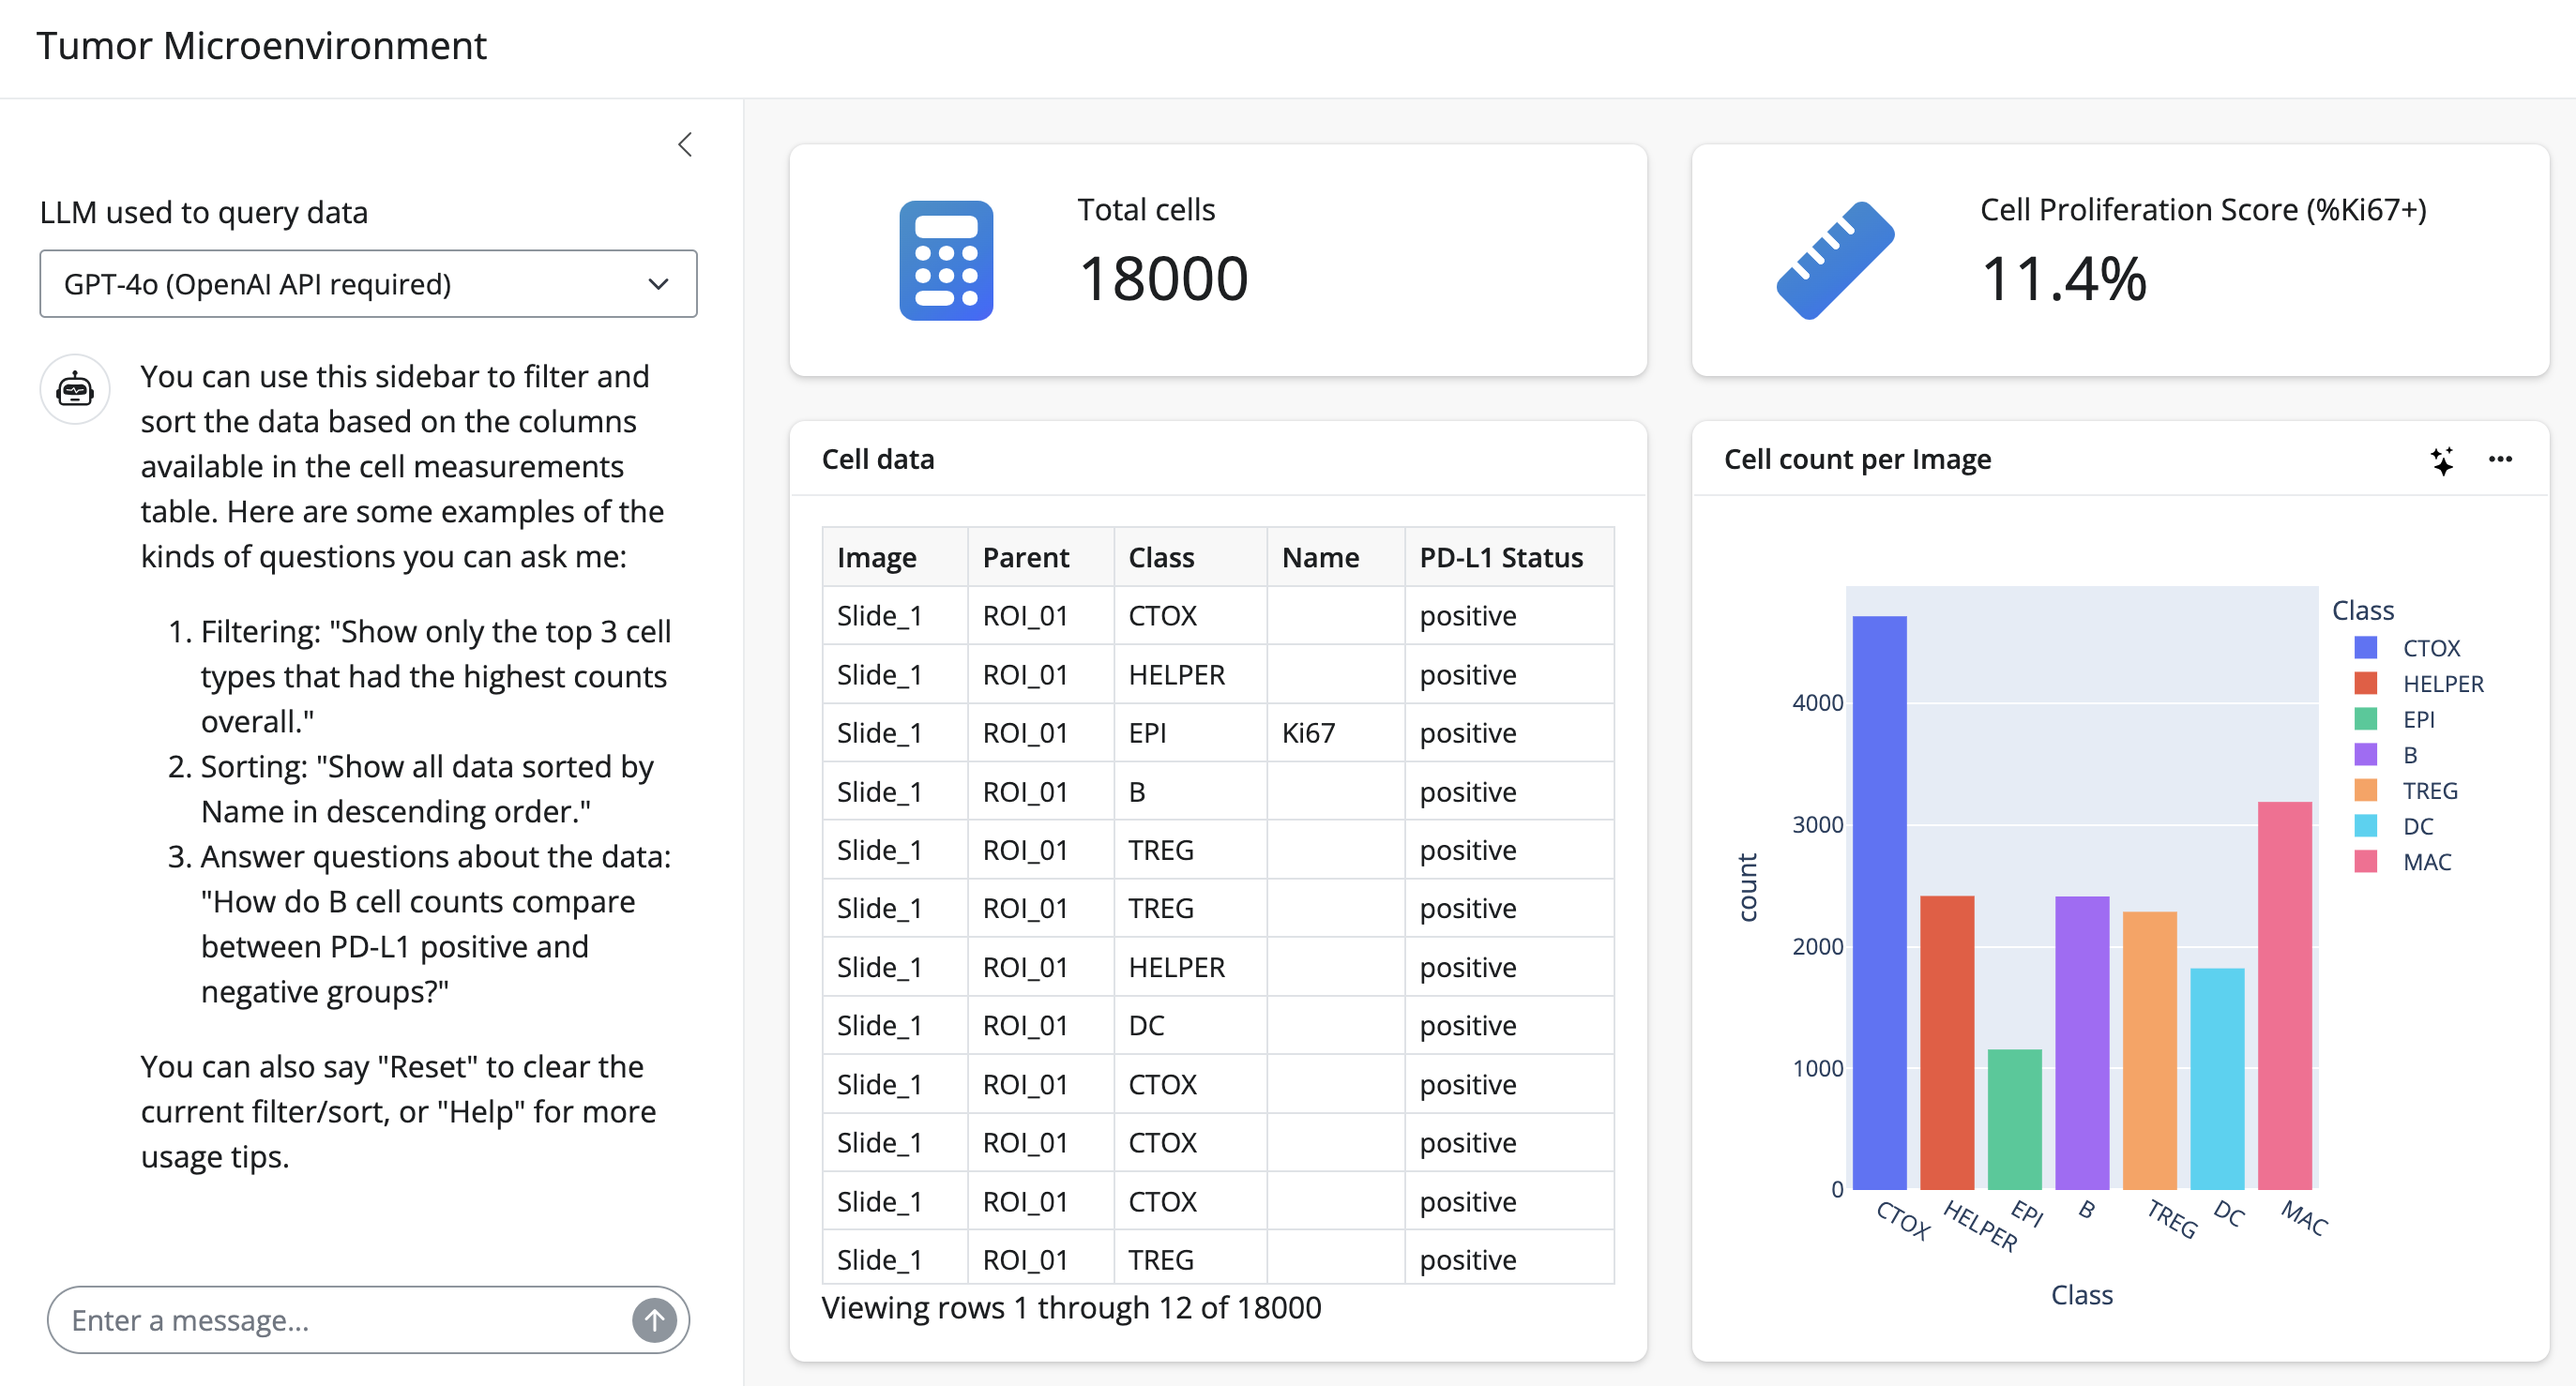
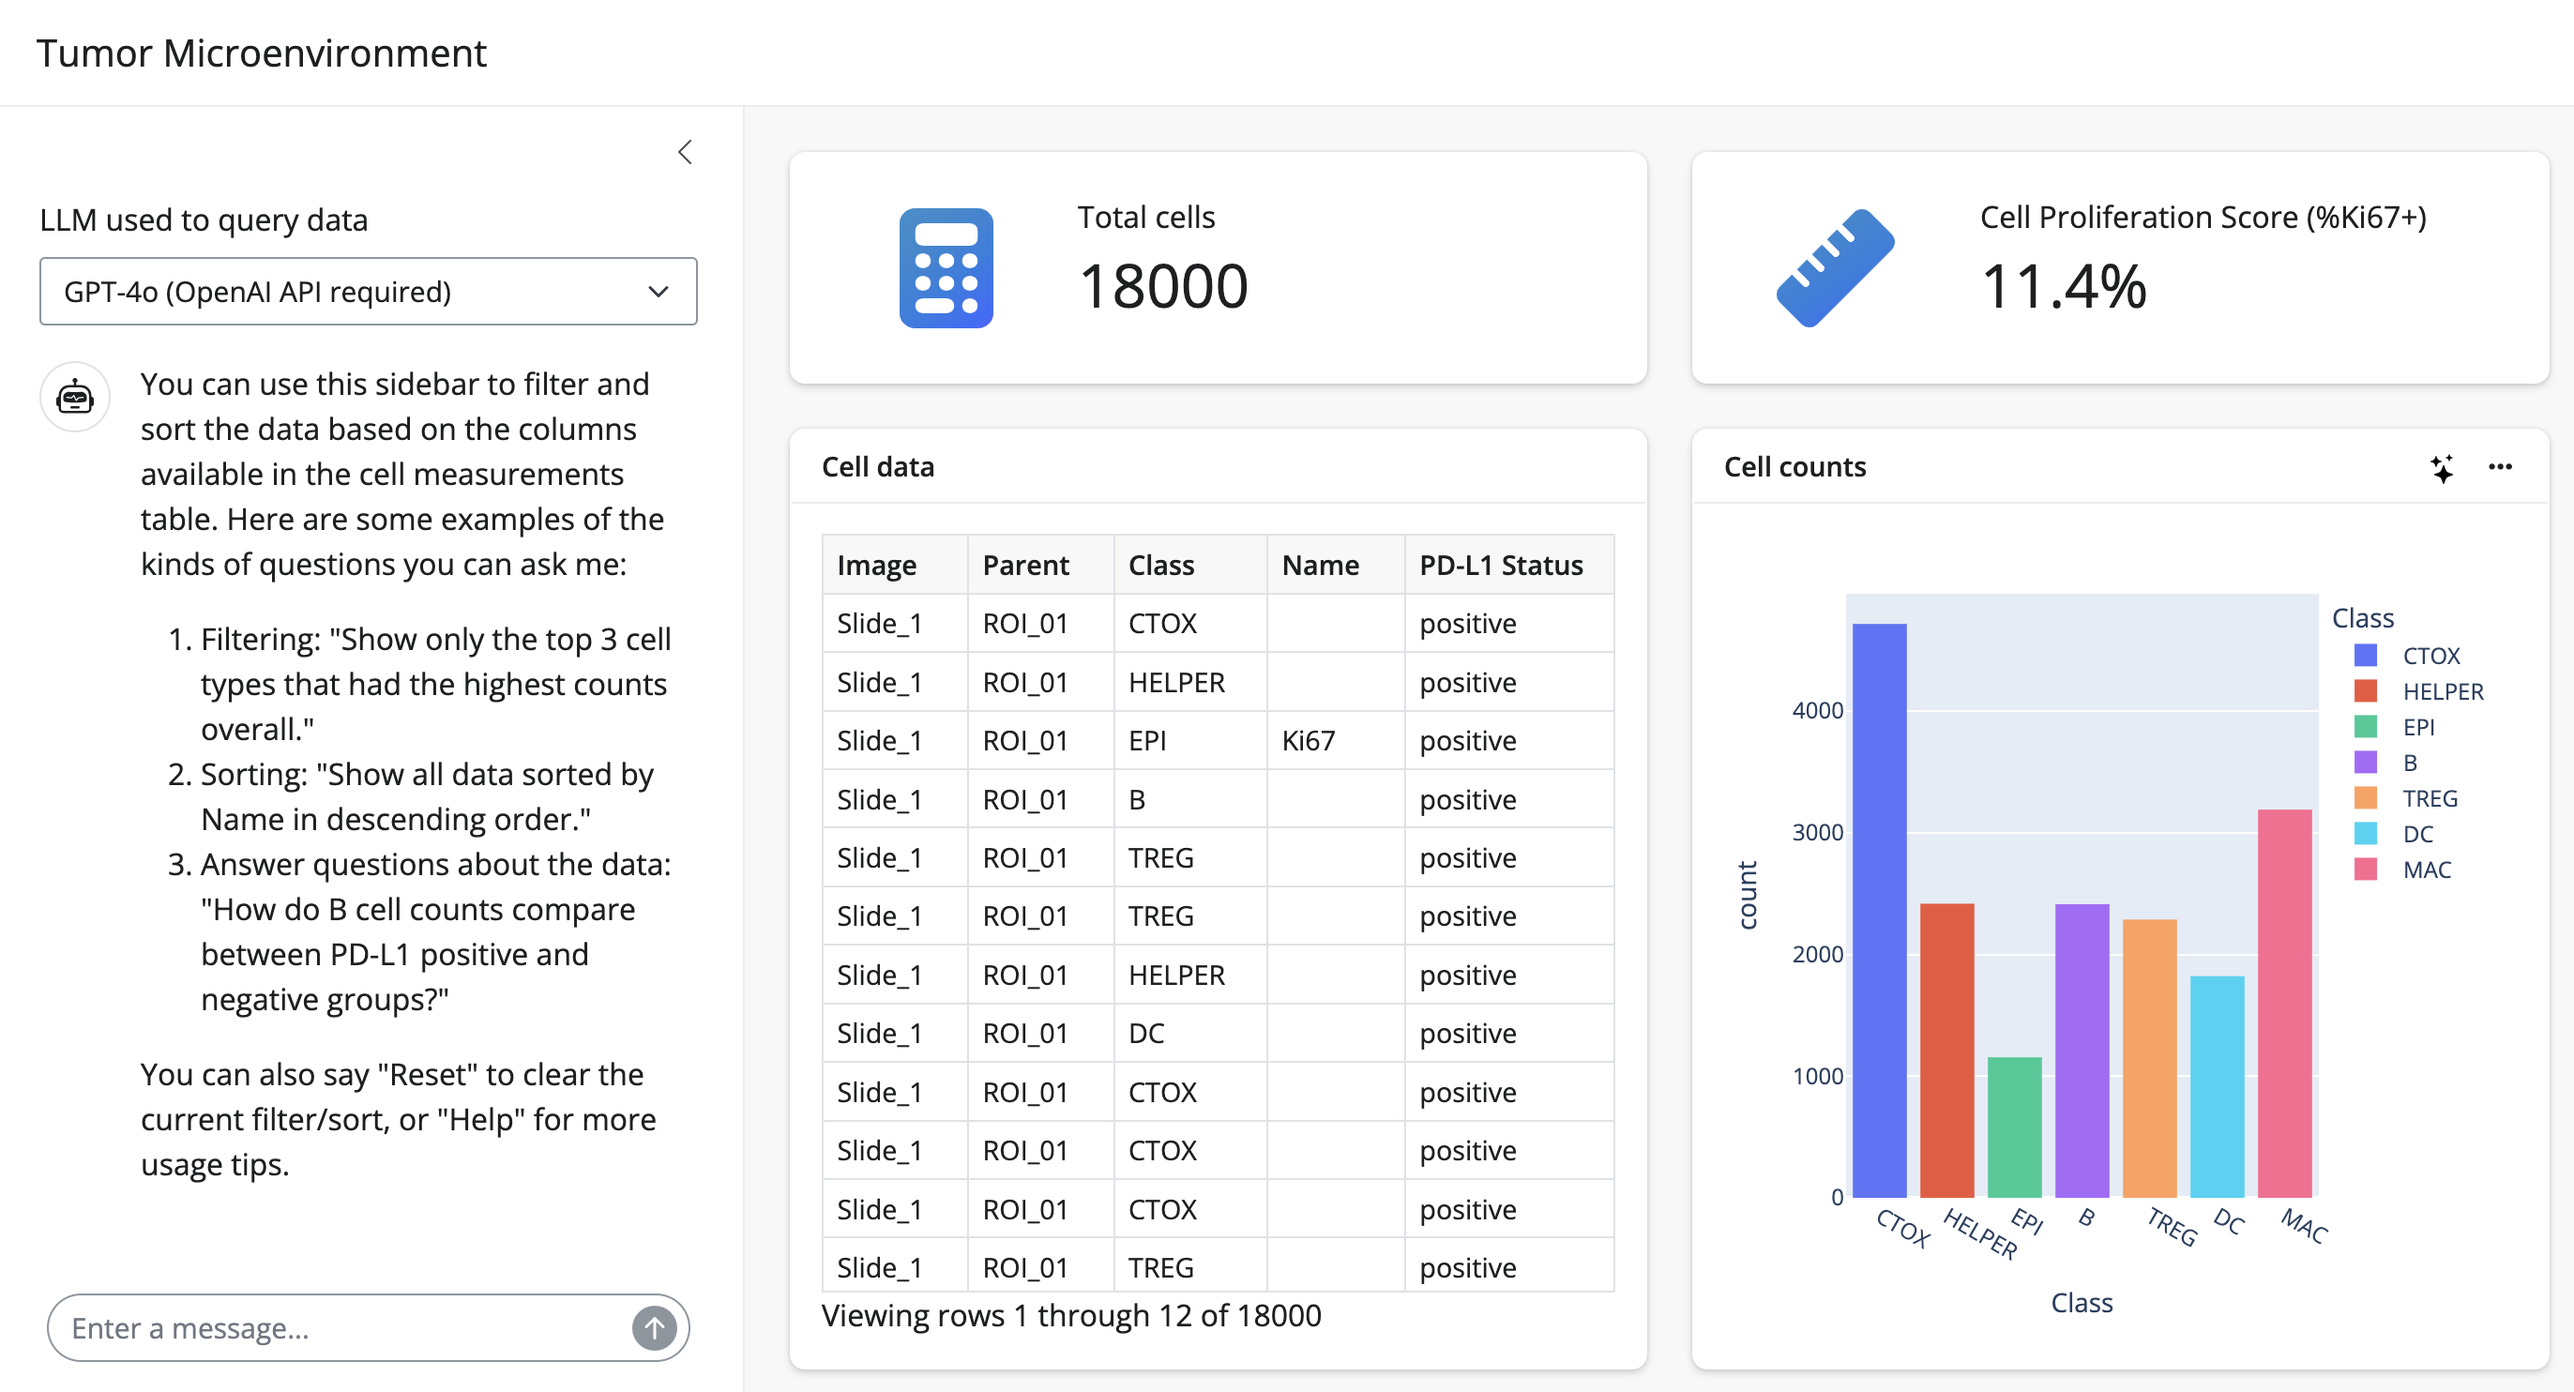
updated

diff --git a/app.py b/app.py
@@ -96,7 +96,7 @@ app_ui = ui.page_sidebar(
         #
         ui.card(
             ui.card_header(
-                "Cell count per Image",
+                "Cell counts",
                 ui.span(
                     ui.input_action_link(
                         "interpret_histogram",
